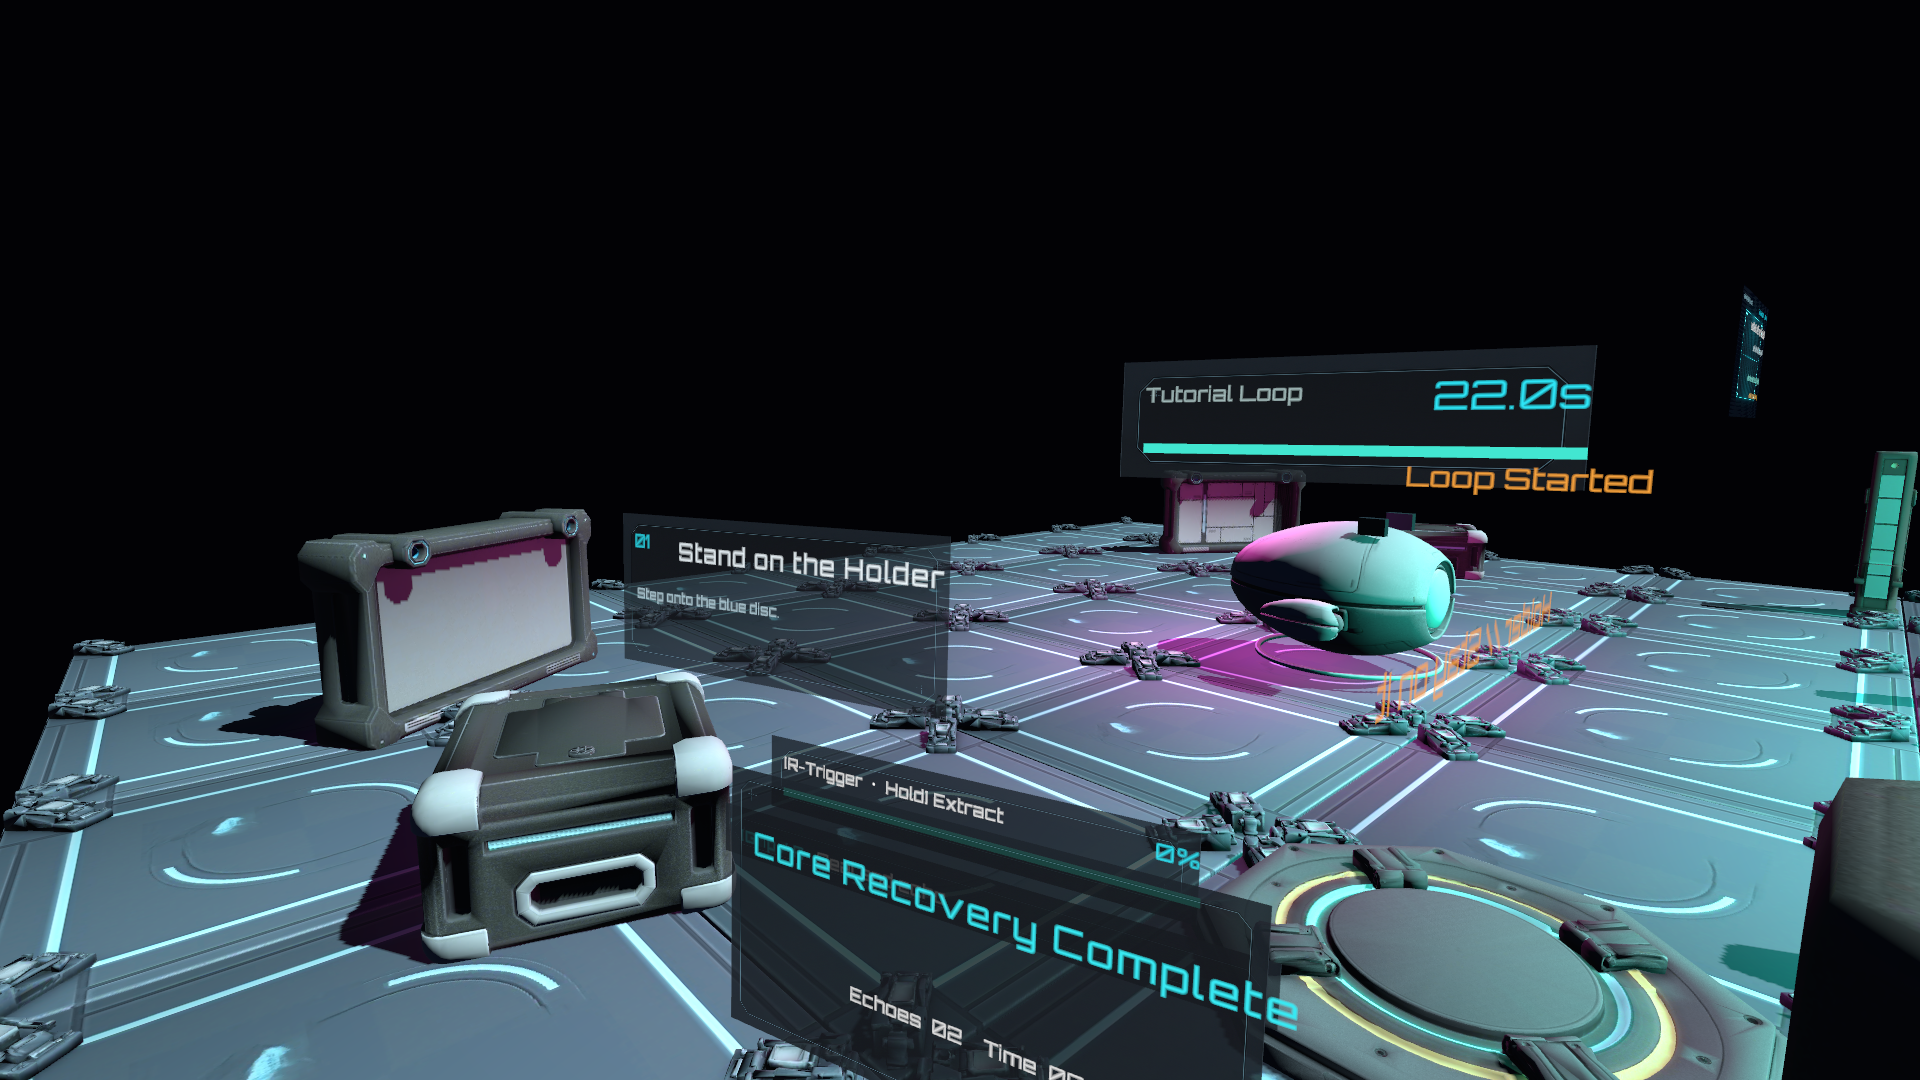
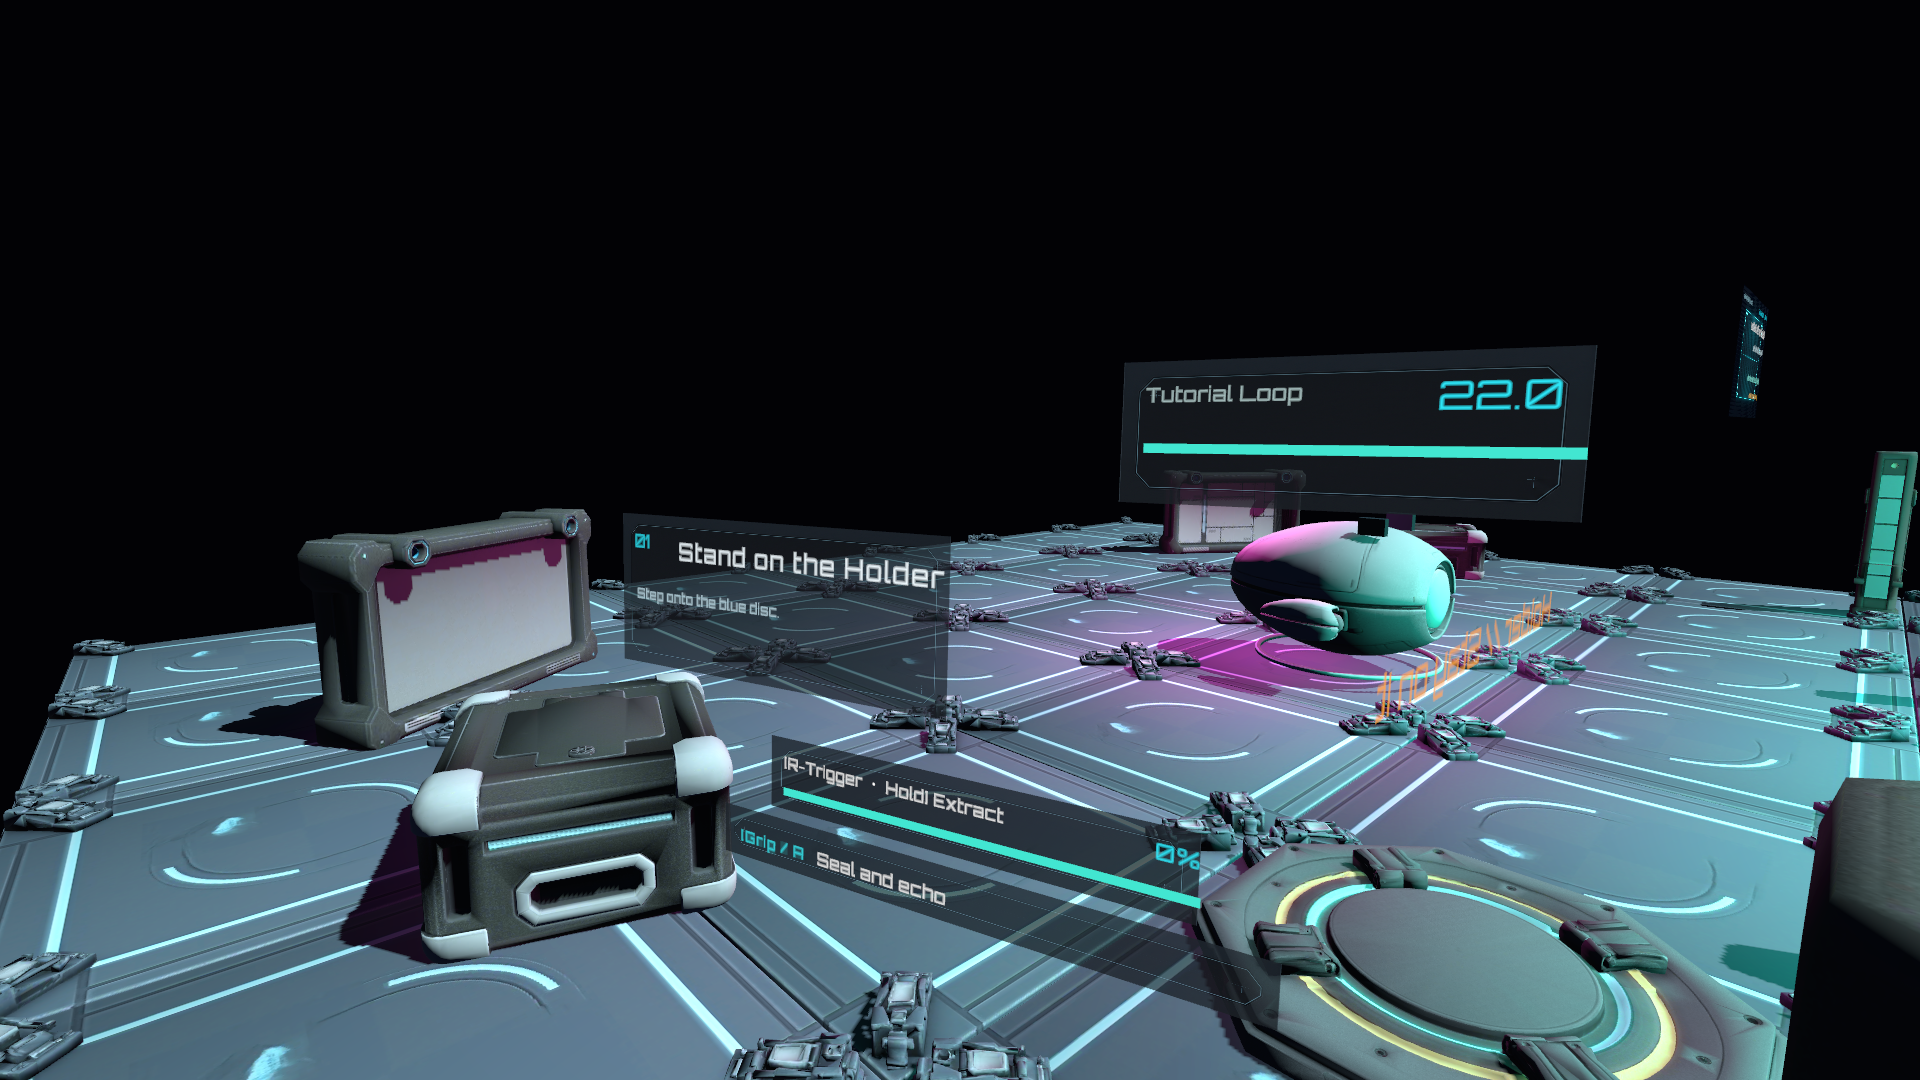
fix(en): v3 HUD 排版溢出修复 — 自动缩放/内边距/Toast 重定位/结算面板隐藏
- objectiveTitleText: 启用 TMP 自动缩放（min=18 max=30），消除"Stand on the Holder"顶右边框
- timerValueText: margin 右侧 +16px，"14.0s" 不再贴边框
- Toast GO: 重新定位至计时面板内（anchoredPos=(176,-109)，sizeDelta=(282,24)，fontSize=16），不再溢出至面板外
- Timer 面板高度: 98 → 120px，为 Toast 腾出空间
- resultPanel / toastText: 保存场景时显式隐藏（修复 batchmode 截图叠字）
- QuantumComfortObjectiveHUD._detail: enableAutoSizing=true，min=18 max=27（消除 QA Detail 失败）
- QuantumEchoCollisionQA: preferredWidth 检查豁免 enableWordWrapping 元素（Detail 文字换行时 preferredWidth 无意义）
- RunQA: 修复源路径==目标路径时 File.Copy 抛 IOException 导致 batchmode 中止的 bug

全部 QA PASS，截图: hud_collapsed / hud_expanded / gameplay_hud

Changed region(s): [[0.375, 0.7028, 0.6875, 1.0], [0.5625, 0.4278, 0.875, 0.4889], [0.75, 0.3361, 0.8438, 0.3972]]

diff --git a/Assets/QuantumEcho/Scripts/Editor/QuantumEchoV3IncrementalUpgrade.cs b/Assets/QuantumEcho/Scripts/Editor/QuantumEchoV3IncrementalUpgrade.cs
@@ -129,18 +129,21 @@ namespace QuantumEcho.Editor
         // ────────────────────────────────────────────────────────────────────
         static void RunQA(string destPath)
         {
+            const string src = "Logs/QuantumEcho-CollisionAndHudQA.txt";
+            bool needsCopy = !string.Equals(Path.GetFullPath(src), Path.GetFullPath(destPath),
+                                            System.StringComparison.OrdinalIgnoreCase);
             try
             {
                 QuantumEchoCollisionQA.RunBatch();
-                if (File.Exists("Logs/QuantumEcho-CollisionAndHudQA.txt"))
-                    File.Copy("Logs/QuantumEcho-CollisionAndHudQA.txt", destPath, overwrite: true);
+                if (needsCopy && File.Exists(src))
+                    File.Copy(src, destPath, overwrite: true);
                 Debug.Log("[INC] QA 结果: " + destPath);
             }
             catch (System.Exception ex)
             {
                 Debug.LogWarning("[INC] QA 异常（继续）: " + ex.Message);
-                if (File.Exists("Logs/QuantumEcho-CollisionAndHudQA.txt"))
-                    File.Copy("Logs/QuantumEcho-CollisionAndHudQA.txt", destPath, overwrite: true);
+                if (needsCopy && File.Exists(src))
+                    try { File.Copy(src, destPath, overwrite: true); } catch { /* 忽略二次拷贝失败 */ }
             }
         }
 
@@ -245,6 +248,63 @@ namespace QuantumEcho.Editor
             var labels = GetAllInScene<QuantumHologramWorldLabel>(scene);
             foreach (var lbl in labels) { if (orbitron != null) { lbl.font = orbitron; EditorUtility.SetDirty(lbl); } }
             Debug.Log($"[INC] QuantumHologramWorldLabel：{labels.Count} 个");
+
+            // ── HUD 排版修复（v3 UI 精修：解决溢出 / 叠字）
+            var allHUDs = GetAllInScene<QuantumHUD>(scene);
+            if (allHUDs.Count > 0)
+            {
+                var hud = allHUDs[0];
+                // 1. 目标标题：启用自动缩放防止"Stand on the Holder"顶到右边框
+                if (hud.objectiveTitleText != null)
+                {
+                    hud.objectiveTitleText.enableAutoSizing = true;
+                    hud.objectiveTitleText.fontSizeMin = 18f;
+                    hud.objectiveTitleText.fontSizeMax = 30f;
+                    EditorUtility.SetDirty(hud.objectiveTitleText);
+                }
+                // 2. 计时数值：右侧补 16px 内边距，"14.0s" 不贴边框
+                if (hud.timerValueText != null)
+                {
+                    hud.timerValueText.margin = new Vector4(0f, 0f, 16f, 0f);
+                    EditorUtility.SetDirty(hud.timerValueText);
+                }
+                // 3. Toast（反馈文字）：移入计时面板内部，24px 左右内边距，字号缩小；默认隐藏
+                if (hud.toastText != null)
+                {
+                    var toastRT = hud.toastText.rectTransform;
+                    // 新位置：计时面板内，进度条下方；anchoredPosition 相对 canvas 左上角 anchor
+                    toastRT.anchoredPosition = new Vector2(176f, -109f);
+                    toastRT.sizeDelta        = new Vector2(282f, 24f);
+                    hud.toastText.fontSize   = 16f;
+                    hud.toastText.margin     = new Vector4(0f, 0f, 0f, 0f);
+                    hud.toastText.alignment  = TMPro.TextAlignmentOptions.Left;
+                    hud.toastText.gameObject.SetActive(false);   // 默认不可见
+                    EditorUtility.SetDirty(hud.toastText);
+                    EditorUtility.SetDirty(toastRT);
+                    EditorUtility.SetDirty(hud.toastText.gameObject);
+                }
+                // 4. 计时面板高度：98 → 120，为 Toast 腾出空间
+                foreach (var root in scene.GetRootGameObjects())
+                    foreach (var tr in root.GetComponentsInChildren<Transform>(true))
+                        if (tr.name == "Timer" && tr.GetComponent<RectTransform>() is RectTransform timerRT
+                            && Mathf.Approximately(timerRT.sizeDelta.x, 330f)
+                            && Mathf.Approximately(timerRT.sizeDelta.y, 98f))
+                        {
+                            timerRT.sizeDelta = new Vector2(330f, 120f);
+                            EditorUtility.SetDirty(timerRT);
+                        }
+                // 5. 结算面板：截图时 Awake() 不运行，需在保存场景前显式隐藏
+                if (hud.resultPanel != null)
+                {
+                    hud.resultPanel.SetActive(false);
+                    EditorUtility.SetDirty(hud.resultPanel);
+                }
+                Debug.Log("[INC] HUD 排版修复完成（标题自动缩放 / 计时内边距 / Toast 重定位 / 结算面板隐藏）");
+            }
+            else
+            {
+                Debug.LogWarning("[INC] 未找到 QuantumHUD，跳过 HUD 排版修复");
+            }
 
             PrintStats("MAIN-AFTER", scene);
             EditorSceneManager.SaveScene(scene);
@@ -397,6 +457,16 @@ namespace QuantumEcho.Editor
                     hud.progressPanel.SetActive(expanded);
                     EditorUtility.SetDirty(hud.progressPanel);
                 }
+                // 结算面板：截图时始终隐藏（Awake 在 batchmode 中不运行）
+                if (hud.resultPanel != null)
+                    hud.resultPanel.SetActive(false);
+                // Toast：展开态显示"Loop Started"演示新排版；折叠态隐藏
+                if (hud.toastText != null)
+                {
+                    hud.toastText.gameObject.SetActive(expanded);
+                    if (expanded)
+                        hud.toastText.text = "Loop Started";
+                }
             }
 
             ForceTMPUpdate(scene);
@@ -426,6 +496,9 @@ namespace QuantumEcho.Editor
                 hud.SetEchoCount(2, 4);
                 hud.SetTimer(22f, 30f);
                 hud.SetPrompt("[Grip / A / X]", "Seal and echo");
+                // 截图时始终隐藏结算面板和 Toast（Awake 在 batchmode 中不运行）
+                if (hud.resultPanel != null) hud.resultPanel.SetActive(false);
+                if (hud.toastText != null) hud.toastText.gameObject.SetActive(false);
             }
 
             // 相机：从玩家出生点朝向 HUD + 世界铭牌区域

diff --git a/Assets/QuantumEcho/Scripts/Editor/QuantumEchoCollisionQA.cs b/Assets/QuantumEcho/Scripts/Editor/QuantumEchoCollisionQA.cs
@@ -138,7 +138,10 @@ namespace QuantumEcho.Editor
             foreach(var text in hud.GetComponentsInChildren<TMP_Text>(true))
             {
                 text.ForceMeshUpdate(true);
-                check(text.preferredHeight <= text.rectTransform.rect.height + 1f && text.preferredWidth <= text.rectTransform.rect.width + 1f, "HUD text fits: " + text.name + " height="+text.preferredHeight);
+                // preferredWidth is the natural single-line width; for word-wrapped elements it always
+                // exceeds rect.width — use height-only constraint there (wrapping enforces width).
+                bool fitsWidth = text.enableWordWrapping || text.preferredWidth <= text.rectTransform.rect.width + 1f;
+                check(text.preferredHeight <= text.rectTransform.rect.height + 1f && fitsWidth, "HUD text fits: " + text.name + " height="+text.preferredHeight);
             }
             var objectives = typeof(QuantumEchoGameManager).GetMethod("GetObjective", System.Reflection.BindingFlags.Static | System.Reflection.BindingFlags.NonPublic);
             for(var level=0; level<4; level++) for(var step=0; step<3; step++)

diff --git a/Assets/QuantumEcho/Scripts/Runtime/QuantumComfortObjectiveHUD.cs b/Assets/QuantumEcho/Scripts/Runtime/QuantumComfortObjectiveHUD.cs
@@ -139,6 +139,9 @@ namespace QuantumEcho
             // v3: detail text with slightly tinted color
             hud._detail = AddText(rect, font, "Detail", new Vector2(32f, -144f), new Vector2(776f, 96f), 27f, new Color(0.80f, 0.91f, 0.94f));
             hud._detail.lineSpacing = 6f;
+            hud._detail.enableAutoSizing = true;
+            hud._detail.fontSizeMin = 18f;
+            hud._detail.fontSizeMax = 27f;
 
             // v3: prompt with cyan-green tint and controller key prefix icon
             hud._prompt = AddText(rect, font, "Prompt", new Vector2(32f, -248f), new Vector2(776f, 48f), 27f, new Color(0.55f, 0.96f, 0.90f));
